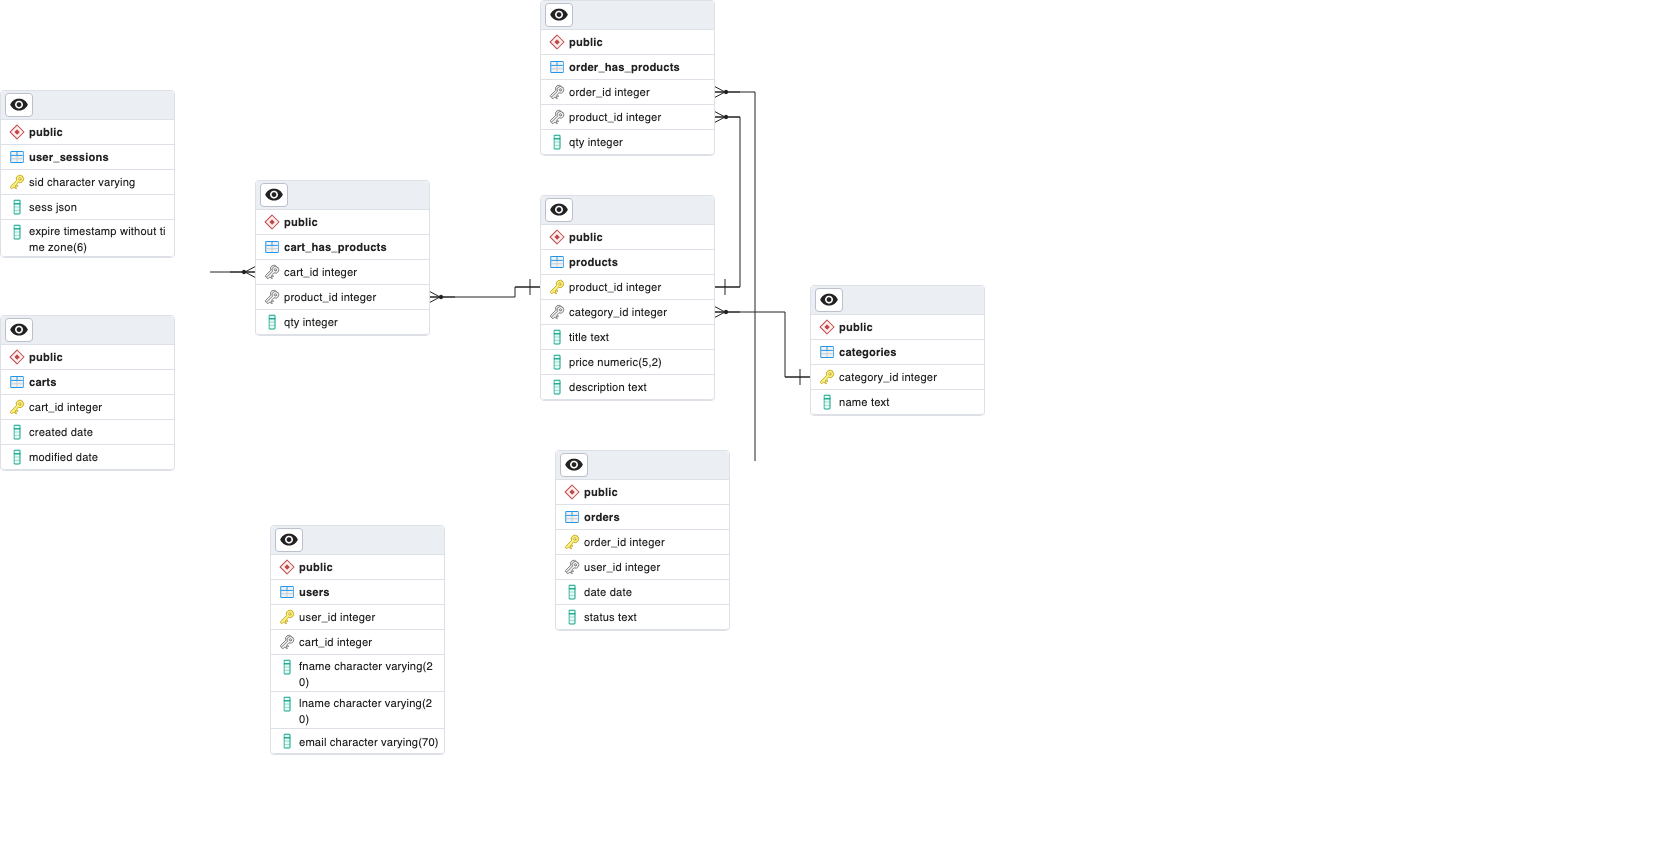
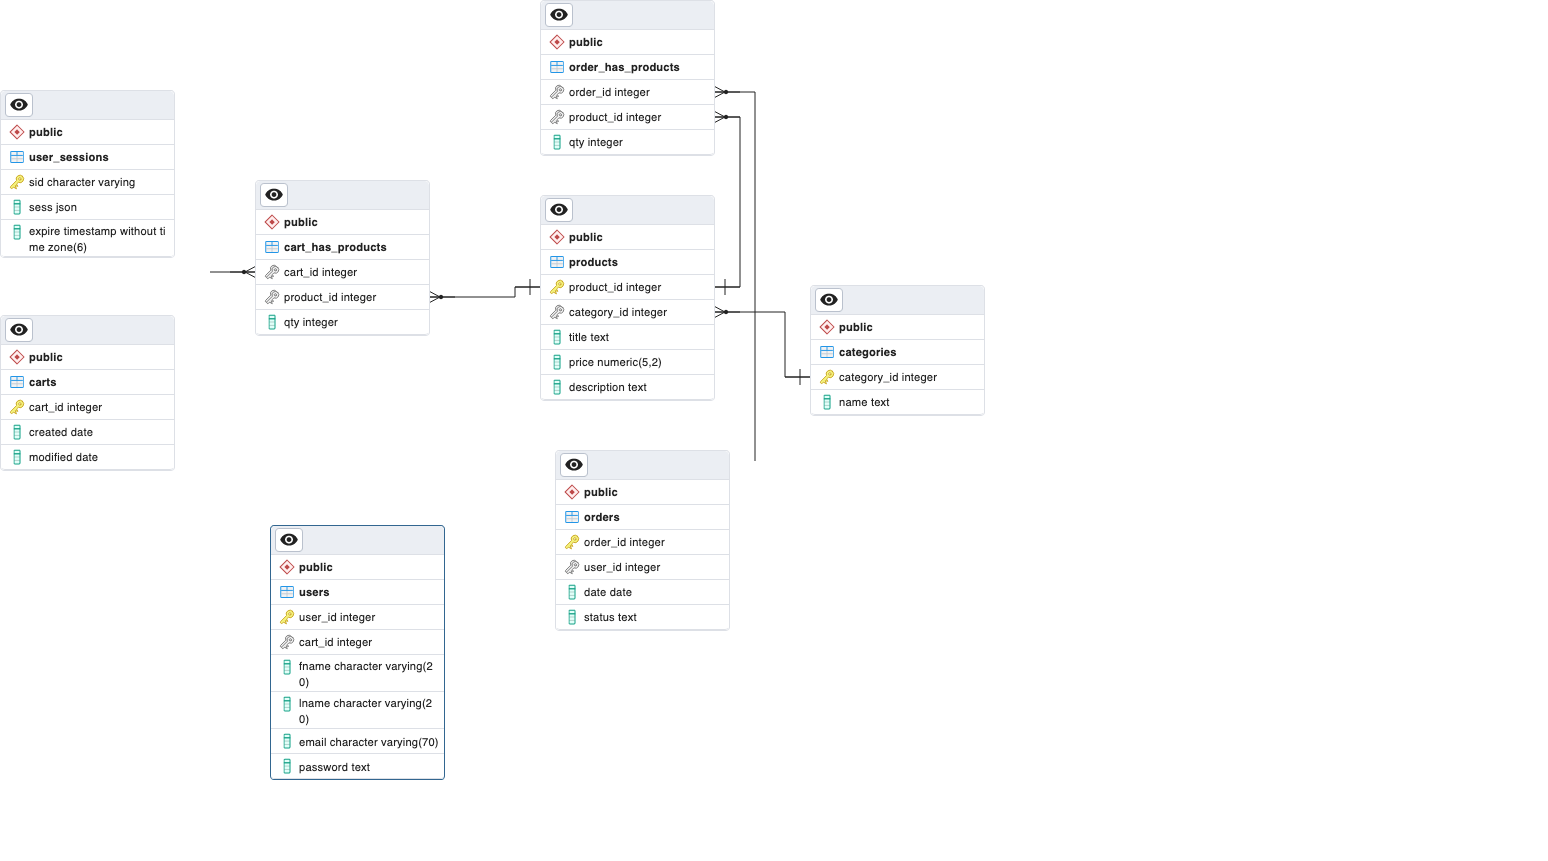
update erd, database changes

diff --git a/models/product.js b/models/product.js
@@ -16,7 +16,7 @@ const getProducts = async (queryOpts) => {
   }
 
   // If there is no query options, get all products
-  const statement = "SELECT * FROM products ORDER BY id ASC";
+  const statement = "SELECT * FROM products ORDER BY product_id ASC";
   try {
     const result = await pool.query(statement);
     return result.rows;
@@ -32,7 +32,7 @@ const getProducts = async (queryOpts) => {
  */
 const getProductsByCategory = async (category) => {
   const query = {
-    text: "SELECT * FROM products WHERE category ILIKE '%'||$1||'%'",
+    text: "SELECT * FROM products join categories using(category_id) WHERE categories.name ILIKE '%'||$1||'%'",
     values: [category],
   };
 
@@ -55,7 +55,7 @@ const getProductsByName = async (name) => {
       // ILIKE = case insensitive query
       // LIKE requires special syntax to surround with %    '%'||$1||'%'
       // https://stackoverflow.com/questions/60257510/postgres-node-search-query-using-like-how-to-set
-      "SELECT * FROM products WHERE name ILIKE '%'||$1||'%' ORDER BY name ASC",
+      "SELECT * FROM products WHERE title ILIKE '%'||$1||'%' ORDER BY title ASC",
     values: [name],
   };
   try {
@@ -74,7 +74,7 @@ const getProductsByName = async (name) => {
 
 const getProductById = async (id) => {
   const query = {
-    text: "SELECT * FROM products WHERE id = $1",
+    text: "SELECT * FROM products WHERE product_id = $1",
     values: [id],
   };
   try {
@@ -104,7 +104,7 @@ const updateProductById = async (id, data) => {
   }
 
   const query = {
-    text: "UPDATE products SET name = $1, price = $2, description = $3, category = $4 WHERE id = $5 RETURNING *",
+    text: "UPDATE products SET title = $1, price = $2, description = $3, category_id = (select categories.category_id from categories where categories.name = $4 LIMIT 1) WHERE product_id = $5 RETURNING *",
     values: [name, price, description, category, id],
   };
 

diff --git a/models/user.js b/models/user.js
@@ -7,11 +7,12 @@ const bcrypt = require("bcrypt");
  * @returns An array of all users
  */
 const getUsers = async () => {
-  const statement = "SELECT * FROM users ORDER BY id ASC";
+  const statement = "SELECT * FROM users ORDER BY user_id ASC";
   try {
     const result = await pool.query(statement);
     return result.rows;
   } catch (err) {
+    console.log(err);
     throw new Error(err);
   }
 };
@@ -23,7 +24,7 @@ const getUsers = async () => {
  */
 const getUserById = async (id) => {
   const query = {
-    text: "SELECT * FROM users WHERE id = $1",
+    text: "SELECT * FROM users WHERE user_id = $1",
     values: [id],
   };
 
@@ -41,12 +42,12 @@ const getUserById = async (id) => {
  * @returns An object with the newly created users information
  */
 const createUser = async (data) => {
-  const { email, password } = data;
+  const { email, password, fname, lname } = data;
   const hashedPassword = await hashPassword(password);
 
   const query = {
-    text: "INSERT INTO users(password, email) VALUES($1, $2) RETURNING *",
-    values: [hashedPassword, email],
+    text: "INSERT INTO users(password, email, fname, lname) VALUES($1, $2, $3, $4) RETURNING *",
+    values: [hashedPassword, email, fname, lname],
   };
 
   try {
@@ -115,6 +116,7 @@ const findUserByEmail = async (email) => {
     const result = await pool.query(query);
     return result.rows?.length ? result.rows[0] : null;
   } catch (err) {
+    console.error(err);
     throw err;
   }
 };
@@ -157,6 +159,7 @@ const loginUser = async (data) => {
 
     return user;
   } catch (err) {
+    console.error(err, "herhergkerwgkerwgk");
     throw err;
   }
 };

diff --git a/routes/auth.js b/routes/auth.js
@@ -8,19 +8,15 @@ module.exports = (app, passport) => {
   router.post("/register", authController.registerNewUser);
   router.post(
     "/login/password",
-    passport.authenticate("local", {
-      failureRedirect: "/auth/login",
-      successRedirect: "/",
-    })
-    // TODO: Is this really needed?
-    // async (req, res, next) => {
-    //   const user = req.user;
-    //   if (!user) {
-    //     // we didnt get a user back from passport authenticate
-    //     res.status(401).send({ message: "Incorrect username or password" });
-    //   }
-    //   res.status(200).send(user);
-    // }
+    passport.authenticate("local"),
+    async (req, res, next) => {
+      const user = req.user;
+      if (!user) {
+        // we didnt get a user back from passport authenticate
+        res.status(401).send({ message: "Incorrect username or password" });
+      }
+      res.status(200).send(user);
+    }
   );
   router.post("/logout", authController.logout);
 };

diff --git a/db/setupDatabase.js b/db/setupDatabase.js
@@ -63,9 +63,10 @@ const { DB } = require("../config");
     (
         user_id integer NOT NULL GENERATED ALWAYS AS IDENTITY,
         cart_id integer,
-        fname character varying(20),
-        lname character varying(20),
-        email character varying(70),
+        fname character varying(20) NOT NULL,
+        lname character varying(20) NOT NULL,
+        email character varying(70) NOT NULL,
+        password text NOT NULL,
         PRIMARY KEY (user_id)
     );
   `;

diff --git a/loaders/passport.js b/loaders/passport.js
@@ -1,6 +1,5 @@
 const passport = require("passport");
 const LocalStrategy = require("passport-local").Strategy;
-const bcrypt = require("bcrypt");
 const User = require("../models/user");
 
 module.exports = (app) => {
